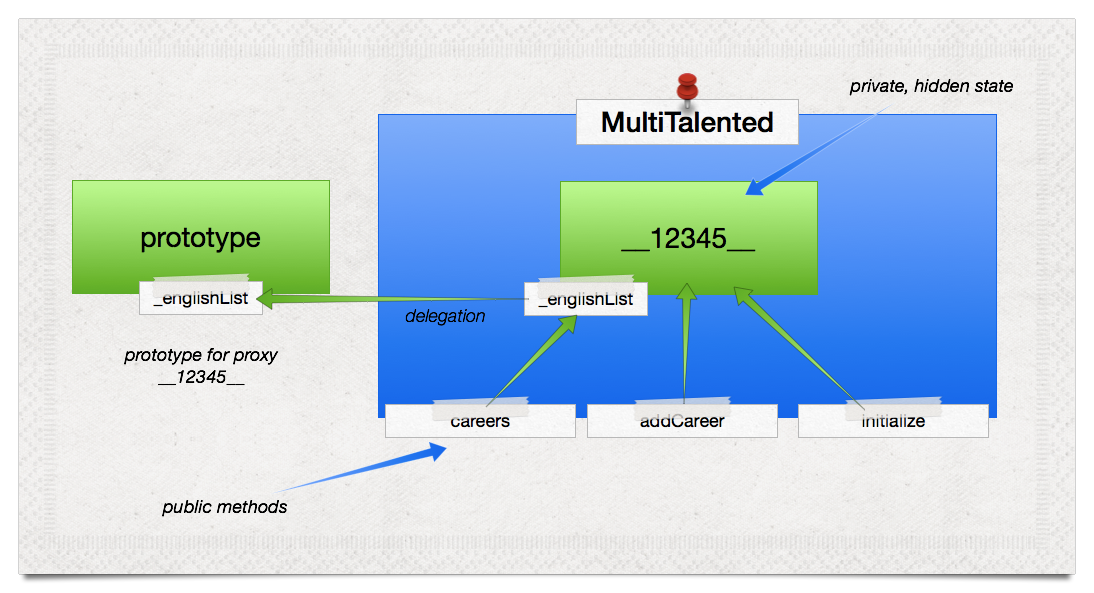
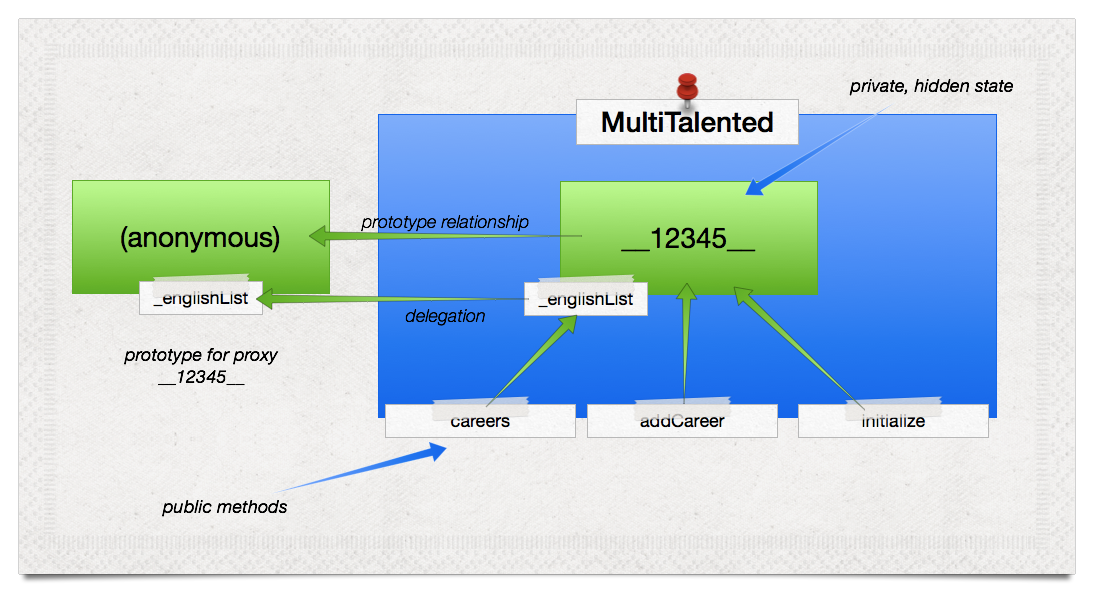
work in progress

Changed region(s): [[0.0932, 0.3642, 0.5283, 0.425]]

diff --git a/manuscript/markdown/mainmatter/8.composing-metaobjects/z.behaviour.md b/manuscript/markdown/mainmatter/8.composing-metaobjects/z.behaviour.md
@@ -89,16 +89,10 @@ function partialProxy (baseObject, methods) {
   return proxyObject;
 }
 
-function methodsOfType (behaviour, type) {
-  var methods = [],
-      methodName;
-
-  for (methodName in behaviour) {
-    if (typeof(behaviour[methodName]) === type) {
-      methods.push(methodName);
-    }
-  };
-  return methods;
+function methodsOfType (behaviour, list, type) {
+  return list.filter(function (methodName) {
+    return typeof(behaviour[methodName]) === type;
+  });
 }
 
 function propertyFlags (behaviour) {
@@ -114,8 +108,8 @@ function propertyFlags (behaviour) {
   return properties;
 }
 
-function methodsThatResolve (behaviour) {
-  return methodsOfType(behaviour, 'object').filter(function (methodName) {
+function methodsThatResolve (behaviour, list) {
+  return methodsOfType(behaviour, list, 'object').filter(function (methodName) {
     return behaviour[methodName] != null;
   });
 }
@@ -124,8 +118,66 @@ var number = 0;
 
 function encapsulate (behaviour) {
   var safekeepingName = "__" + ++number + "__",
-      definedMethods = methodsOfType(behaviour, 'function'),
-      dependencies = methodsOfType(behaviour, 'undefined'),
+      methods = Object.keys(behaviour).filter(function (methodName) {
+          return typeof behaviour[methodName] === 'function';
+        }),
+      privateMethods = methods.filter(function (methodName) {
+          return methodName[0] === '_';
+        }),
+      publicMethods = methods.filter(function (methodName) {
+          return methodName[0] !== '_';
+        }),
+      proxyPrototype;
+
+  function createContext (methodReceiver) {
+    return proxy(methodReceiver, proxyPrototype);
+  }
+
+  function getContext (methodReceiver) {
+    var context = methodReceiver[safekeepingName];
+    if (context == null) {
+      context = createContext(methodReceiver);
+      Object.defineProperty(methodReceiver, safekeepingName, {
+        enumerable: false,
+        writable: false,
+        value: context
+      });
+    }
+    return context;
+  }
+
+  proxyPrototype = privateMethods.reduce(function (acc, methodName) {
+    acc = acc || {};
+    acc[methodName] = behaviour[methodName];
+    return acc;
+  }, null);
+
+  return publicMethods.reduce(function (acc, methodName) {
+    var methodBody = behaviour[methodName];
+
+    acc[methodName] = function () {
+      var context = getContext(this),
+          result = behaviour[methodName].apply(context, arguments);
+      return (result === context) ? this : result;
+    };
+    return acc;
+  }, {});
+}
+
+function encapsulate (behaviour) {
+  var safekeepingName = "__" + ++number + "__",
+      methods = Object.keys(behaviour).filter(function (methodName) {
+          return typeof behaviour[methodName] === 'function';
+        }),
+      privateMethods = methods.filter(function (methodName) {
+          return methodName[0] === '_';
+        }),
+      publicMethods = methods.filter(function (methodName) {
+          return methodName[0] !== '_';
+        }),
+      proxyPrototype;
+      definedMethods = methodsOfType(behaviour, publicMethods, 'function'),
+      dependencies = methodsOfType(behaviour, publicMethods, 'undefined'),
       encapsulatedObject = {};
 
   function createContext (methodReceiver) {
@@ -144,6 +196,12 @@ function encapsulate (behaviour) {
     }
     return context;
   }
+
+  proxyPrototype = privateMethods.reduce(function (acc, methodName) {
+    acc = acc || {};
+    acc[methodName] = behaviour[methodName];
+    return acc;
+  }, null);
 
   definedMethods.forEach(function (methodName) {
     var methodBody = behaviour[methodName];
@@ -251,7 +309,10 @@ function composeBehaviours () {
 
   return behaviours.reduce(function (composed, behaviour) {
     var definedMethods = methodsOfType(behaviour, 'function'),
-        resolutions = methodsThatResolve(behaviour),
+        publicMethods = methods.filter(function (methodName) {
+            return methodName[0] !== '_';
+          }),
+        resolutions = methodsThatResolve(behaviour, publicMethods),
         dependencies = methodsOfType(behaviour, 'undefined');
 
     if (!allEncompasses(Object.getPrototypeOf(composed), Object.getPrototypeOf(behaviour))) {

diff --git a/manuscript/markdown/mainmatter/7.encapsulation/4.privacy.md b/manuscript/markdown/mainmatter/7.encapsulation/4.privacy.md
@@ -1,4 +1,4 @@
-## Privacy
+## Privacy {#privacy}
 
 Our `encapsulate` function sets up a sharp demarcation: An encapsulated metaobject has one or more methods that are visible to other objects. Those "public" methods can update and query properties, but the properties are hidden from the public. The properties are "private."
 
@@ -291,4 +291,10 @@ Our new architecture looks like this:
 
 ![Private method using a prototype for the proxy](images/7/privateWithprototype.png)
 
-When `careers` invokes `this._englishList`, the context is the our proxy, shown as property `__12345__`. There is no implementation of `_englishList` in the proxy itself, but there is in the prototype we construct for it, so invoking it as a method works for any of the public (or other private) methods we define in this behaviour.
+When `careers` invokes `this._englishList`, the context is our proxy, shown as property `__12345__`. There is no implementation of `_englishList` in the proxy itself, but there is in the prototype we construct for it, so invoking it as a method works for any of the public (or other private) methods we define in this behaviour.
+
+W> There are many other ways to implement encapsulation with public and private methods. There are *especially* many other ways to distibguish public from private methods: Naming conventions are definitely a question of taste.
+W>
+W> The thing to remember is that the specific design and implementation is not the point, it's a vehicle for thinking about access control, coupling, design, and the interaction between objects and metaobjects in a software system.
+W>
+W> > "It is like a finger, pointing away to the moon. Don't concentrate on the finger, or you will miss all that heavenly glory."---Bruce Lee, recounting a teaching from Buddhism's [Lankavatara Sutra](https://en.wikipedia.org/wiki/Finger_pointing_to_the_moon).

diff --git a/manuscript/markdown/mainmatter/8.composing-metaobjects/1.partial-proxies.md b/manuscript/markdown/mainmatter/8.composing-metaobjects/1.partial-proxies.md
@@ -6,7 +6,9 @@ This cleanly separates the code we write along lines of responsibility. Encapsul
 
 We saw in [Encapsulation for Metaobjects](#encapsulation-for-metaobjects) that we can use proxies to prevent metaobjects from manipulating the base object's properties. Now we're going to explicitly limit the methods that each metaobject can access on the base object. This lowers the coupling between metaobjects.
 
-Let's start by recalling `encapsulate`:
+Let's start by recalling a basic version of the `encapsulate` function:[^basic_encapsulate]
+
+[^basic_encapsulate]: We will deliberately leave out some refinements such as [private methods](#privacy) to highlight the ideas we're exploring here.
 
 ~~~~~~~~
 var number = 0;
@@ -94,7 +96,7 @@ If we program in this style, writing behaviours that have dependencies hidden in
 
 Behaviours--like `IsSelfDescribing`--that depend upon the base object or another behaviour implementing methods are said to *stack* upon other behaviours.
 
-*TODO: Diagram showing `IsSelfDescribing` stacking.*
+![IsSelfDescribing stacked on HasName and HasCareer](images/8/stacking.png)
 
 We can manage these dependencies by making dependencies explicit instead of implicit. First, we'll express the dependencies using a simple convention: If a behaviour depends upon a method, it must bind `undefined` to the name of the method.
 
